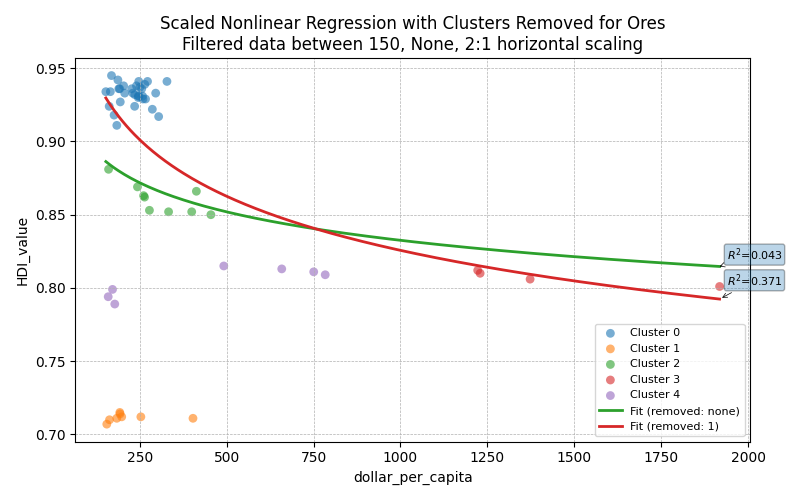
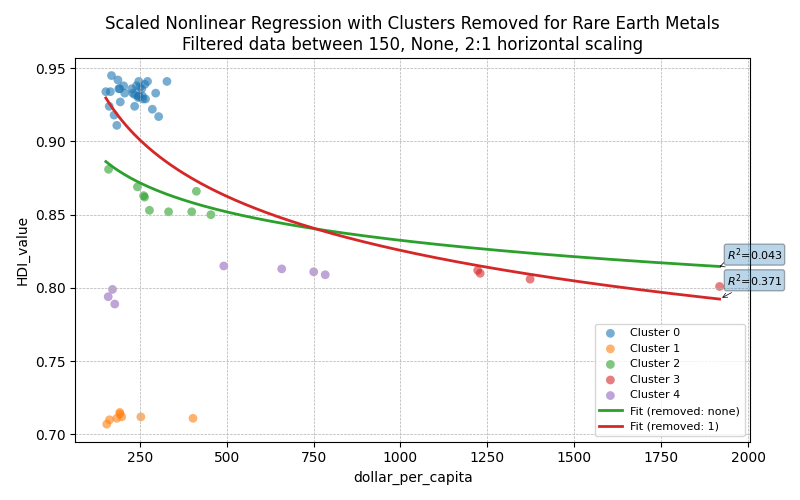
Updated README and fixed data names

Changed region(s): [[0.125, 0.03, 0.9062, 0.06]]

diff --git a/inorganic_clusreg.py b/inorganic_clusreg.py
@@ -12,7 +12,7 @@ clusterdata.to_csv('data/clustering_results/inorganic.csv', index=False)
 
 project_1v2_0.combined_regression_clustering(
     [minfilter, maxfilter, yscalar],
-    'Ores', full_clustered_df=clusterdata,
+    'Rare Earth Metals', full_clustered_df=clusterdata,
     cluster_filtered_dfs=[
         # (clusterdata, [1, 5, 4, 3], 'C1'),
         (clusterdata, [], 'C2'),

diff --git a/mineral_clusreg.py b/mineral_clusreg.py
@@ -13,7 +13,7 @@ clusterdata.to_csv('data/clustering_results/mineral.csv', index=False)
 
 project_1v2_0.combined_regression_clustering(
     [minfilter, maxfilter, yscalar],
-    labels[2], full_clustered_df=clusterdata,
+    'Oil', full_clustered_df=clusterdata,
     cluster_filtered_dfs=[
         (clusterdata, [0], 'C1'),
         (clusterdata, [2, 3], 'C2')

diff --git a/README.md b/README.md
@@ -2,12 +2,16 @@
 
 ## Project Overview
 ![My awesome screenshot](images/mineral_double_nonlinear.png)
+[Cluster 1 Resource Curse States](data/clustering_results/mineral_group_1.csv) | [Cluster 0 Gulf States](data/clustering_results/mineral_group_0.csv)
 
 This project investigates the complex relationship between natural resource exports and a country's Human Development Index (HDI). The impact of such exports has long been debated, with some theories suggesting accelerated development through capital inflow, while others point to negative effects like the "resource curse" and "Dutch disease," fostering corruption and complacency. Our goal is to analyze these competing hypotheses by examining the net effect of natural resource exports on the HDI, providing a unified perspective on their true impact.
 
 We specifically focus on the export of cereal, oil, lumber, rare earth metals, and ores from countries worldwide during the period 2010-2020. The Human Development Index (HDI) serves as our primary metric, a composite index encompassing life expectancy, education, and standard of living.
 
 ![My awesome screenshot](images/all_scatter_3D.png)
+
+![Rare Earth Metals Graph](images/inorganic_double_nonlinear.png)
+An interesting example of an inverted trend with rare earth metals.
 
 ## Key Features
 
